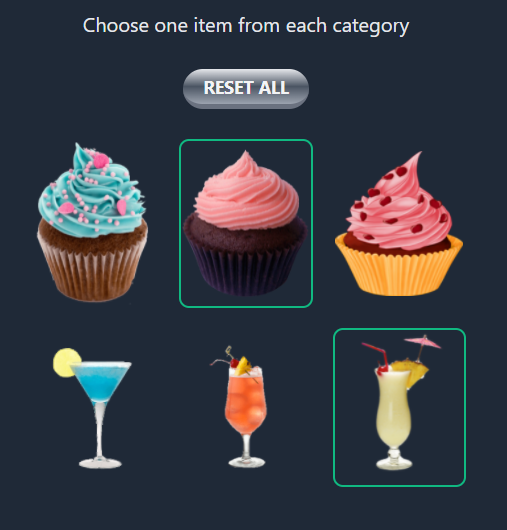
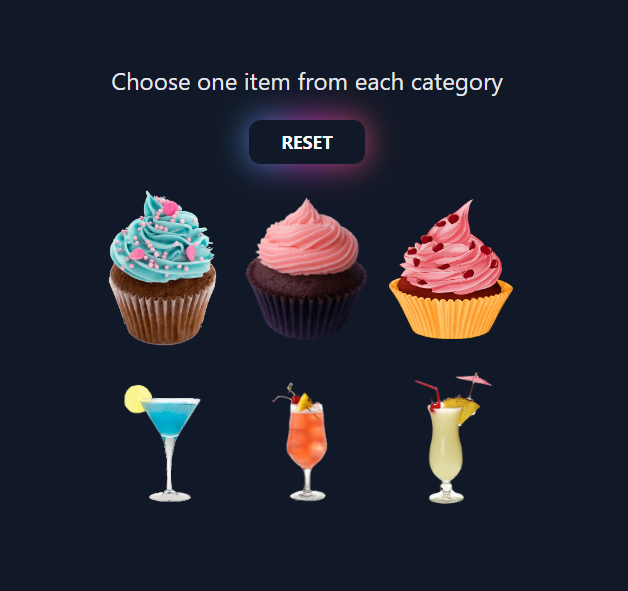
improvements

diff --git a/src/App.js b/src/App.js
@@ -89,7 +89,7 @@ function App() {
                 setChosenCupcake('');
                 setChosenCocktail('');
               }}
-              className='relative inline-flex items-center justify-center px-6 py-2 md:px-8 md:py-2 text-sm md:text-lg font-bold text-white transition-all duration-200 bg-gray-900 font-pj rounded-xl focus:outline-none focus:ring-0 uppercase'
+              className='relative inline-flex items-center justify-center px-6 py-2 md:px-8 md:py-2 text-sm md:text-lg font-bold text-white transition-all duration-200 bg-gray-900 rounded-xl focus:outline-none focus:ring-0 focus:ring-offset-0 uppercase'
             >
               Reset
             </button>

diff --git a/README.md b/README.md
@@ -10,4 +10,4 @@ This project was created with [React](https://github.com/facebook/create-react-a
 3. All items are organized into arrays based on their types - cupcakes and cocktails, so all cupcakes are displayed first, and then - all cocktails.
 
 ## Preview
-![Preview Image](https://github.com/EkaterinaGorbunova/choose-item-/blob/main/public/img/preview.png?raw=true)
+![Preview Image](https://github.com/EkaterinaGorbunova/choose-item/blob/main/public/img/preview.png?raw=true)
